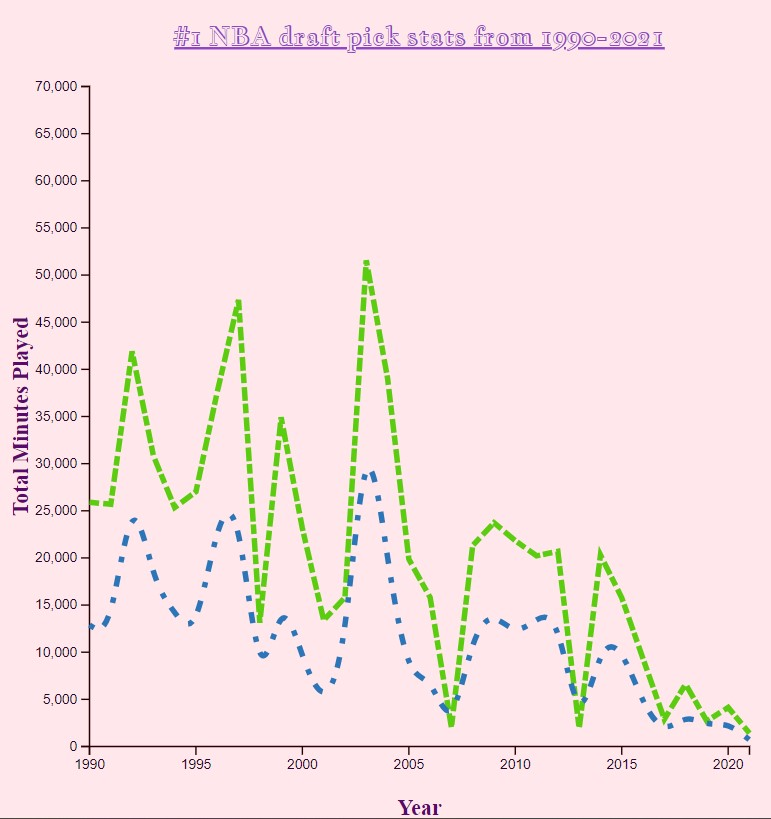
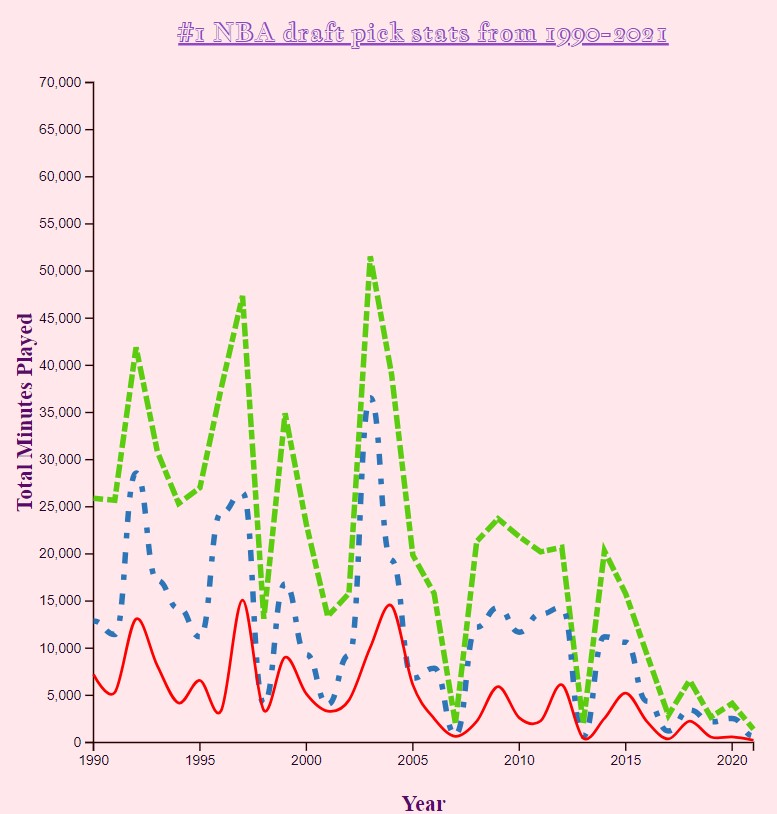
added 3rd line, updated readme and pic

diff --git a/Week-7-Drawing-Data/Week-7-HW/index.html b/Week-7-Drawing-Data/Week-7-HW/index.html
@@ -135,15 +135,20 @@
             
             //CREATE 1st LINE USING D3.LINE GENERATOR
             const line = d3.line() //requires x & y
-                           //.curve(d3.curveBasis)
                            .x(d => xScale(d.DraftYear))
                            .y(d => yScale(d.TOTMP));
 
             //CREATE 2ND LINE USING D3.LINE GENERATOR - DOESN'T SHOW
             const line2 = d3.line()
-                            .curve(d3.curveBasis)
+                            .curve(d3.curveBumpX)
                             .x(d => xScale(d.DraftYear))
                             .y(d => yScale(d.TOTPTS));
+
+            //CREATE 3RD LINE USING D3.LINE GENERATOR - DOESN'T SHOW
+            const line3 = d3.line()
+                            .curve(d3.curveCardinal)
+                            .x(d => xScale(d.DraftYear))
+                            .y(d => yScale(d.TOTTRB));
 
 
             //APPLY 1ST LINE GENERATOR USING PATH
@@ -154,11 +159,18 @@
 
             //APPLY 2ND LINE GENERATOR USING PATH - DOESN'T SHOW
             svg.append("path")
-            .attr("d", line2(data))
-            .attr("class", "linetwo")
-            .attr("stroke", "blue")
-            .attr("fill", "none")
-             console.log('line2', line2(data));
+                .attr("d", line2(data))
+                .attr("class", "linetwo")
+                console.log('line2', line2(data));
+
+             //APPLY 3RD LINE GENERATOR USING PATH - DOESN'T SHOW
+            svg.append("path")
+                .attr("d", line3(data))
+                .attr("class", "linethree")
+                .attr("stroke", "red")
+                .attr("stroke-width", 2)
+                .attr("fill", "none")
+                console.log('line2', line3(data));
 
             //ADD LINE LABEL - DOESN'T SHOW
             svg.append("text")

diff --git a/Week-7-Drawing-Data/Week-7-HW/Readme.md b/Week-7-Drawing-Data/Week-7-HW/Readme.md
@@ -13,10 +13,10 @@
 
 ### Drawing
 - Was able to create the second line - had a spelling mistake while formatting the data
-- Wanted to draw a line that pointed to the line peak but was unsuccessful
+- Wanted to draw a line that pointed to the line peaks but was unsuccessful
 
 ### Chart
-Graph shows the total minutes played (green) and total points scored (blue) for the #1 NBA draft picks, from 1990-2021. Lebron James, drafted in 2003, leads in both categories at 51,563 minutes & 36,559 points scored, respectively.  
+Graph shows the total minutes played (green), total points scored (blue), and total rebounds (red) for the #1 NBA draft picks, from 1990-2021. Lebron James, drafted in 2003, leads in the first two categories at 51,563 minutes & 36,559 points scored, respectively.  
 
 
 ![Number 1 NBA pick stats](NBA-stats.jpg)
